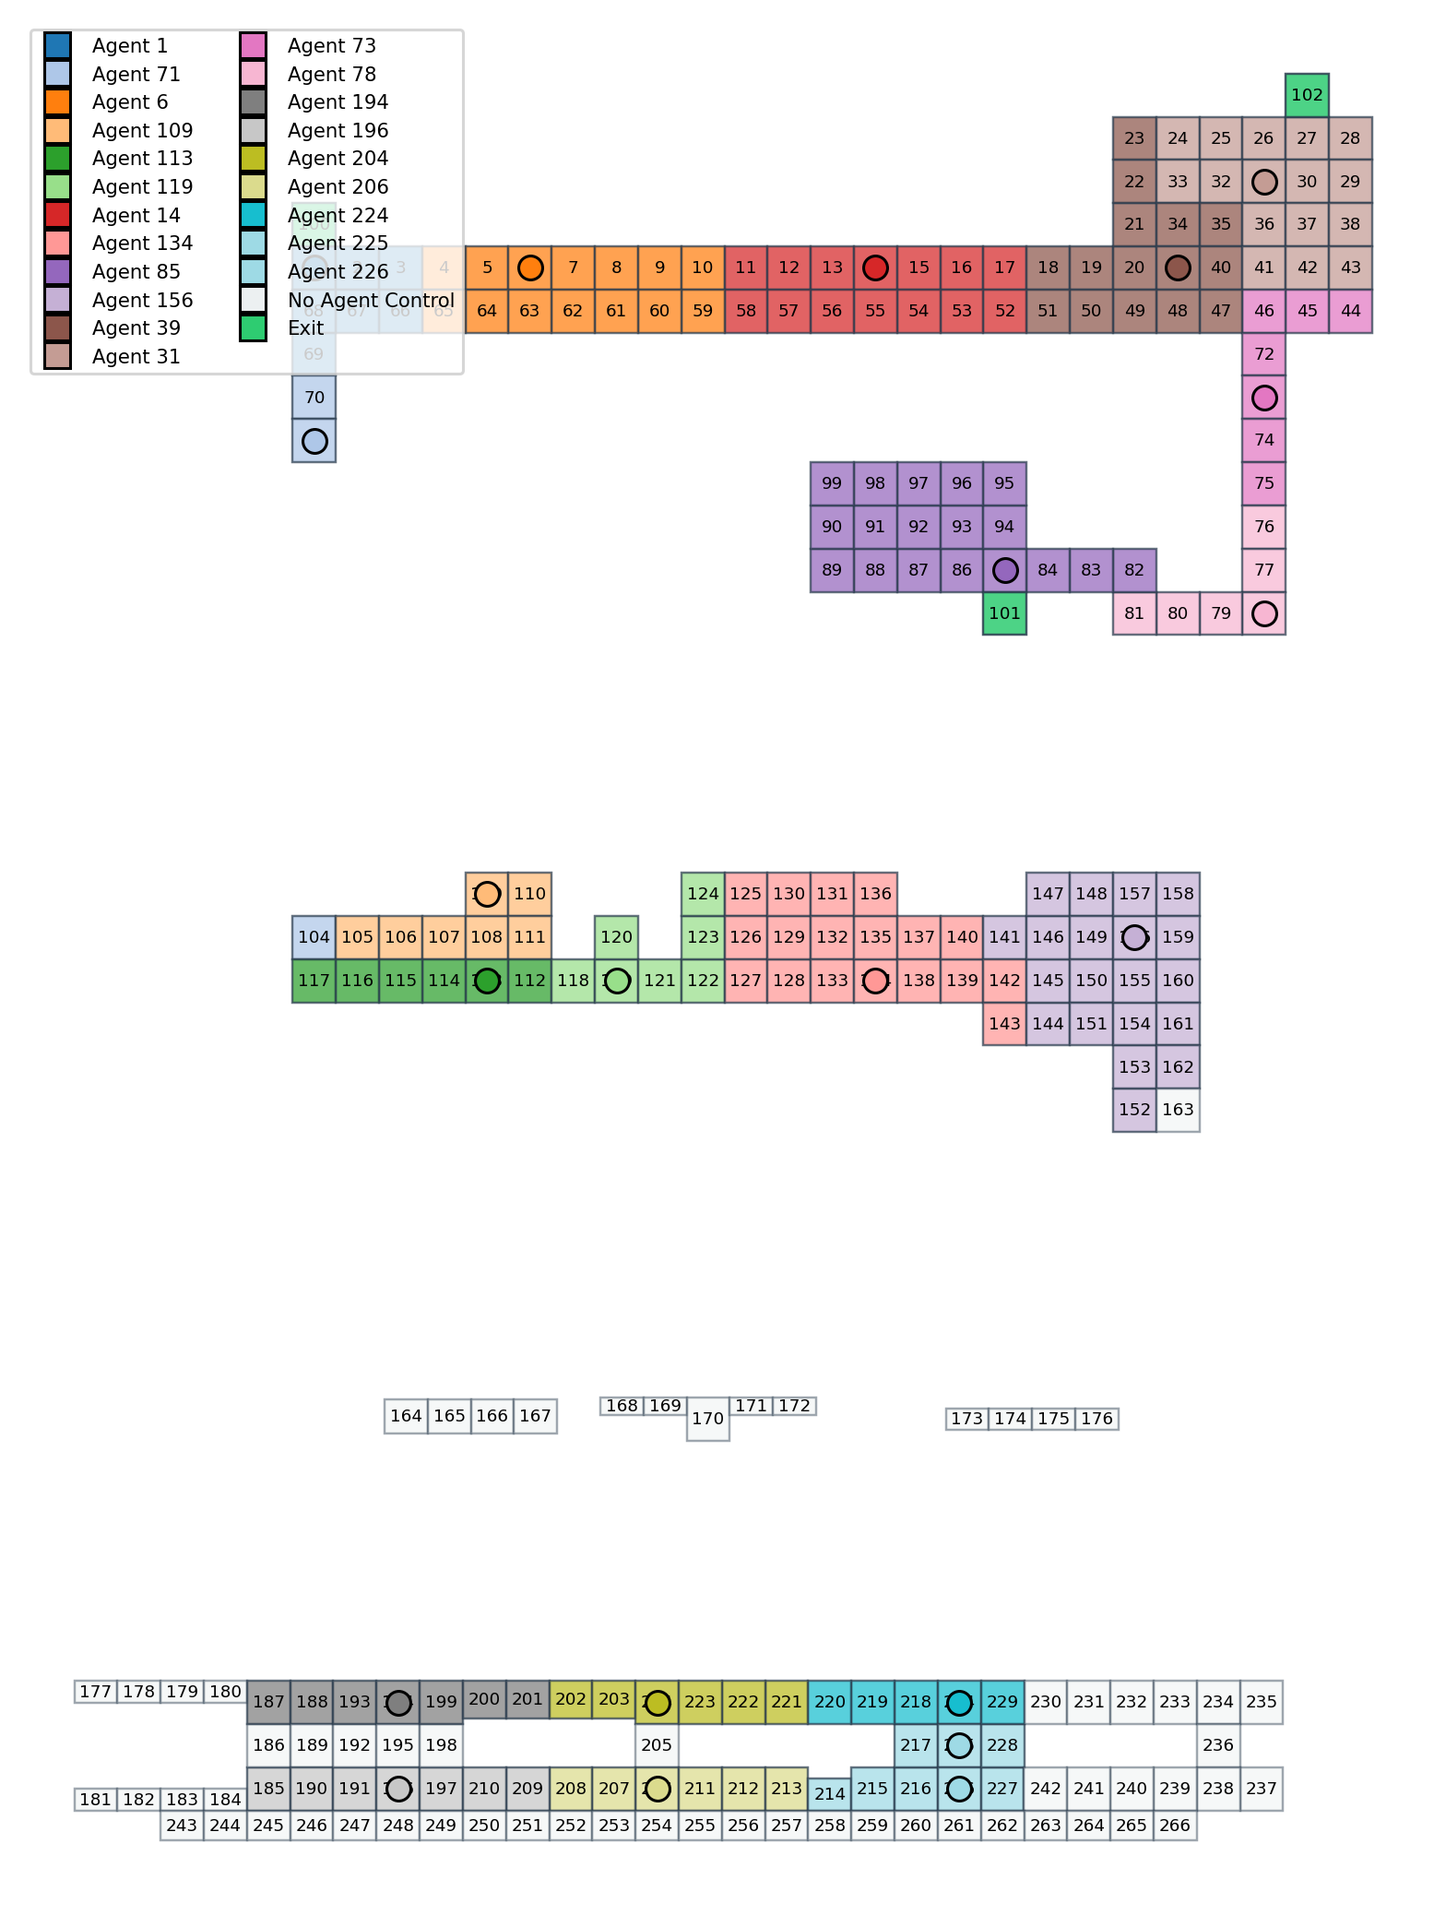
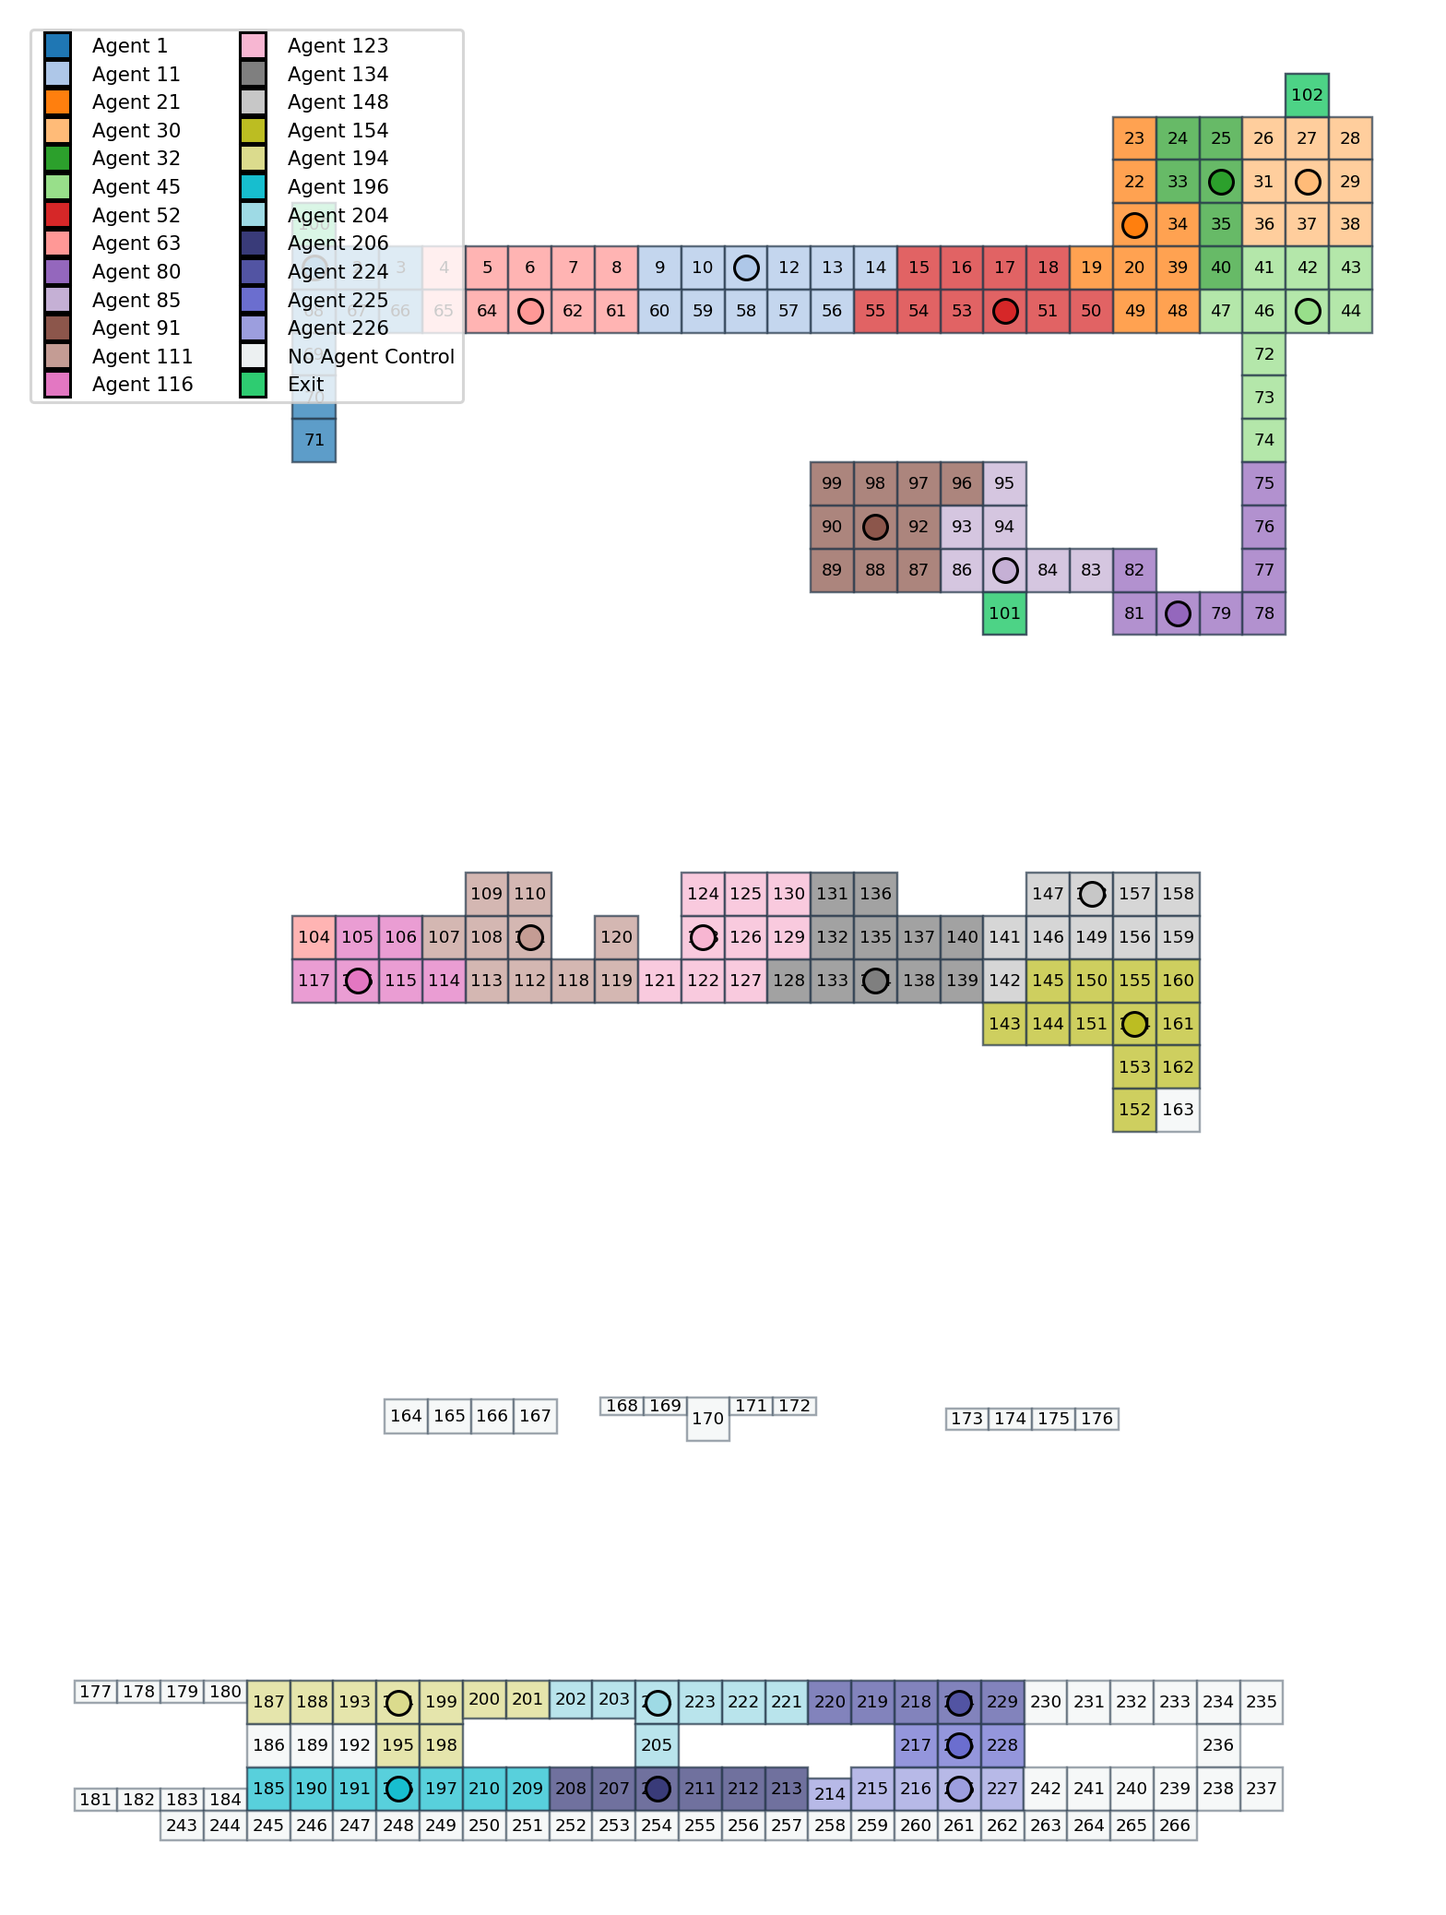
小问题没有覆盖等解决

diff --git a/QMIX_MARL/utils/CTM/ctm_start/__init__.py b/QMIX_MARL/utils/CTM/ctm_start/__init__.py
@@ -153,27 +153,77 @@ def init(fire_info=None):
     people_number = random_people()
     cell_type = cell_type_create()
 
-    sigal_effect_cells = [{1: [(68, 67), (1, 2), (2, 3), (3, 4),(67, 66), (66, 65)], 2: [(68, 1), (2, 1), (3, 2), (1, 100), (66, 67), (67, 2)], 4: [(3, 2), (2, 1), (1, 68), (68, 69),(66, 67), (67, 68)]},   # agent1
-                          {1: [(69, 70), (70, 71), (71, 117), (117, 116), (116, 115),(115, 114), (104, 105), (105, 106),(106, 107)], 2: [(115, 116), (116, 117), (117, 71), (71, 70),(70, 69), (69, 68),(106,105),(105,104),(104,117)]},   # agent2
-                          {1: [(4, 5), (5, 6), (6, 7),(7, 8), (8, 9), (9, 10),(65, 64), (64, 63), (63, 62),(62, 61), (61, 60), (60, 59),], 3: [(9, 8), (8, 7), (7, 6),(6, 5), (5, 4), (4, 3),(60, 61), (61, 62), (62, 63),(63, 64), (64, 65), (65, 66)]},  # agent3
-                          {2: [(109, 63)], 4: [(109, 108)]},  # agent4
-                          {1: [(114, 113), (113, 112),(112, 118), (111, 112),(110, 111), (108, 113),(107, 114)], 2: [(112, 111), (111, 110),(110, 109), (113, 108),(108, 109), (114, 107),(107, 108)], 3: [(112, 113), (113, 114),(114, 115), (110, 111),(111, 108), (108, 107),(107, 106)]},  # agent5
-                          {1: [(118, 119), (119, 121),(121, 122), (122, 127),(120, 119),(124, 125), (123, 126)], 3: [(124, 123), (123, 122),(122, 121), (121, 119),(120, 119),(119, 118), (118, 112)]},  # agent6
-                          {1: [(10, 11), (11, 12),(12, 13), (13, 14),(14, 15), (15, 16),(16, 17), (17, 18),(59, 58), (58, 57),(57, 56), (56, 55),(55, 54), (54, 53),(53, 52), (52, 51)], 3: [(17, 16), (16, 15),(15, 14), (14, 13),(13, 12), (12, 11),(11, 10), (10, 9),(52, 53), (53, 54),(54, 55), (55, 56),(56, 57), (57, 58),(58, 59), (59, 60)]},  # agent7
-                          {1: [(125, 130), (130, 131), (131, 136),(136, 135), (126, 129), (129, 132),(132, 135), (135, 137), (137, 140),(140, 141), (141, 146), (127, 128),(128, 133), (133, 134), (134, 138),(138, 139), (139, 142), (142, 145)], 3: [(141, 140), (140, 137), (137, 135),(135, 132), (132, 129), (129, 126),(126, 123), (125, 126), (130, 125),(131, 130), (136, 131), (142, 139),(139, 138), (138, 134), (134, 133),(133, 128), (128, 127), (127, 122)], 4: [(125, 126), (126, 127), (127, 128),(130, 129), (129, 132), (131, 132),(132, 135), (136, 135), (128, 133),(133, 134), (135, 134), (134, 97),(141, 140), (140, 137), (137, 138),(138, 96), (142, 139), (139, 138)] },  # agent8
-                         {1: [(99, 90), (90, 89),(98, 91), (91, 88),(97, 92), (92, 87),(96, 93), (93, 86),(95, 94), (94, 85),(89, 88), (88, 87) , (87, 86),(86, 85), (85, 84),(84, 83), (83, 82),(82, 81)], 4: [(99, 90), (90, 89),(98, 91), (91, 88),(97, 92), (92, 87),(96, 93), (93, 86),(95, 94), (94, 85),(89, 88), (88, 87) , (87, 86),(86, 85), (85, 101),(84, 85), (83, 84),(82, 83)]},  # agent9
-                          {1: [(147, 148), (148, 157), (157, 158),(146, 149), (149, 156), (156, 159),(145, 150), (150, 155), (155, 160), (143, 144), (144, 151), (151, 154),(154, 161),(152, 153), (153, 154), (163, 162),(162, 161),(161, 160),(160, 159), (158, 159), (159, 73)],2: [(147, 148), (148, 157), (158, 157),(143, 144),(144, 151), (145, 150), (146, 149),(149, 156), (150, 155), (151, 154),(152, 153), (153, 154), (154, 155),(155, 156),(156, 157), (159, 158), (163, 162),(162, 161),(161, 160),(160, 159), (157, 48)], 3: [(147, 146), (148, 149), (157, 156),(158, 159), (159, 156), (156, 149), (149, 146),(146, 141), (160, 155), (155, 150),(150, 145), (145, 142), (161, 154), (154, 151),(151, 144),(144, 143), (143, 142),(152, 153), (153, 154),(163, 162),(162, 161)]},  # agent10
-                          {1: [(18, 19), (19, 20), (20, 39),(39, 40), (40, 41), (41, 42),(42, 37), (43, 38), (51, 50),(50, 49), (49, 48), (48, 47),(47, 46), (46, 45), (45, 42),(44, 43) ], 3: [ (43, 42), (42, 41), (41, 40),(40, 39), (39, 20), (20, 19),(19, 18), (18, 17), (44, 45),(45, 46), (46, 47), (47, 48),(48, 49), (49, 50), (50, 51),(51, 52) ], 4: [ (18, 19), (19, 20), (20, 39),(39, 40), (40, 41), (43, 42),(42, 41), (44, 45), (45, 46),(51, 50), (50, 49), (49, 48),(48, 47), (47, 46), (41, 46),(46, 72) ]},  # agent11
-                          {2: [(23, 24), (24, 25), (25, 26), (26, 27), (22, 33), (33, 32),(32, 31), (31, 30), (21, 34),(34, 35), (35, 36), (36, 37),(37, 30), (30, 27), (27, 102),(38, 29), (29, 28), (28, 103)], 4: [(23, 22), (22, 21), (21, 20), (24, 33), (33, 34), (34, 39),(25, 32), (32, 35), (35, 40),(26, 31), (31, 36), (36, 41),(27, 30), (30, 37), (37, 42),(28, 29), (29, 38), (38, 43)]},  # agent12
-                          {4: [(72, 73),(73, 74),(74, 75),(75, 76)], 2: [(75, 74),(74, 73),(73, 72),(72, 46)]},  # agent13
-                          {2: [(76, 77), (77, 78), (78, 79),(79, 80), (80, 81), (81, 82)], 3: [(81, 80), (80, 79), (79, 78),(78, 77), (77, 76), (76, 75)]},  # agent14
-                          {1: [(187, 188), (188, 193), (193, 194),(194, 199), (199, 200), (200, 201),(201, 202)], 4: [(187, 188), (188, 193), (193, 194), (201, 200), (200, 199), (199, 198),(194, 195)]},  # agent15
-                          {1: [(185, 190), (190, 191), (191, 196),(196, 197), (197, 210), (210, 209),(209, 208)], 2: [(209, 210), (210, 197), (197, 198),(185, 190), (190, 191), (191, 196),(196, 195)]},  # agent16
-                          {1: [(202, 203), (203, 204),(204, 223), (223, 222),(222, 221),(221, 220)], 3: [(221, 222), (222, 223),(223, 204), (204, 203), (203, 202),(202, 201)], 4: [(202, 203), (203, 204),(204, 205), (221, 222),(222, 223),(223, 204)]},  # agent17
-                          {1: [(208, 207), (207, 206),(206, 211), (211, 212),(212, 213),(213, 214)], 2: [(208, 207), (207, 206),(213, 212),  (212, 211),(211, 206),(206, 205)], 3: [(213, 212), (212, 211),(211, 206), (206, 207),(207, 208),(208, 209)]},  # agent18
-                          {1: [(220, 219), (219, 218),(218, 217), (224, 225),(229, 228)], 3: [(229, 224), (224, 218),(218, 219),  (219, 220),(220, 221)]},  # agent19
-                          {1: [(217, 225), (225, 228), (228, 173)], 2: [(225, 228), (228, 173), (217, 172)], 3: [(225, 217), (228, 173), (217, 172)],4: [(225, 217), (228, 225), (217, 172)]},  # agent20
-                          {1: [(214, 215), (215, 216), (216, 217), (226, 225), (227, 228)],3: [(227, 226), (226, 216), (216, 215), (215, 214), (214, 213)]},  # agent21
+    sigal_effect_cells = [{1: [(1, 2), (2, 3), (3, 4), (66, 65), (67, 66), (68, 67), (69, 70), (70, 71), (71, 117)],
+                           2: [(1, 100), (2, 1), (3, 2), (66, 67), (67, 2), (68, 1), (69, 68), (70, 69), (71, 70)],
+                           4: [(1, 68), (2, 1), (3, 2), (66, 67), (67, 68), (68, 69)]},  # agent1
+                          {1: [(9, 10), (10, 11), (11, 12), (12, 13), (13, 14), (14, 15), (56, 55), (57, 56), (58, 57), (59, 58), (60, 59)],
+                           3: [(9, 8), (10, 9), (11, 10), (12, 11), (13, 12), (14, 13), (56, 57), (57, 58), (58, 59), (59, 60), (60, 61)]},  # agent2
+                          {1: [(19, 20), (20, 39), (39, 40), (48, 47), (49, 48)],
+                           2: [(21, 34), (22, 33), (23, 24), (34, 35)],
+                           3: [(19, 18), (20, 19), (39, 20), (48, 49), (49, 50)],
+                           4: [(19, 20), (20, 39), (21, 20), (22, 21), (23, 22), (34, 39), (39, 40), (48, 47), (49, 48)]},  # agent3
+                          {2: [(26, 27), (27, 102), (28, 103), (29, 28), (30, 27), (31, 30), (36, 37), (37, 30), (38, 29)],
+                           4: [(26, 31), (27, 30), (28, 29), (29, 38), (30, 37), (31, 36), (36, 41), (37, 42), (38, 43)]},  # agent4
+                          {1: [(40, 41)],
+                           2: [(24, 25), (25, 26), (32, 31), (33, 32), (35, 36)],
+                           3: [(40, 39)],
+                           4: [(24, 33), (25, 32), (32, 35), (33, 34), (35, 40), (40, 41)]},  # agent5
+                          {1: [(41, 42), (42, 37), (43, 38), (44, 43), (45, 42), (46, 45), (47, 46)],
+                           2: [(72, 46), (73, 72), (74, 73)],
+                           3: [(41, 40), (42, 41), (43, 42), (44, 45), (45, 46), (46, 47), (47, 48)],
+                           4: [(41, 46), (42, 41), (43, 42), (44, 45), (45, 46), (46, 72), (47, 46), (72, 73), (73, 74), (74, 75)]},  # agent6
+                          {1: [(15, 16), (16, 17), (17, 18), (18, 19), (50, 49), (51, 50), (52, 51), (53, 52), (54, 53), (55, 54)],
+                           3: [(15, 14), (16, 15), (17, 16), (18, 17), (50, 51), (51, 52), (52, 53), (53, 54), (54, 55), (55, 56)],
+                           4: [(18, 19), (50, 49), (51, 50)]},  # agent7
+                          {1: [(4, 5), (5, 6), (6, 7), (7, 8), (8, 9), (61, 60), (62, 61), (63, 62), (64, 63), (65, 64), (104, 105)],
+                           2: [(104, 117)],
+                           3: [(4, 3), (5, 4), (6, 5), (7, 6), (8, 7), (61, 62), (62, 63), (63, 64), (64, 65), (65, 66)]},  # agent8
+                          {1: [(82, 81)],
+                           2: [(75, 74), (76, 77), (77, 78), (78, 79), (79, 80), (80, 81), (81, 82)],
+                           3: [(76, 75), (77, 76), (78, 77), (79, 78), (80, 79), (81, 80)],
+                           4: [(75, 76), (82, 83)]},  # agent9
+                          {1: [(83, 82), (84, 83), (85, 84), (86, 85), (93, 86), (94, 85), (95, 94)],
+                           4: [(83, 84), (84, 85), (85, 101), (86, 85), (93, 86), (94, 85), (95, 94)]},  # agent10
+                          {1: [(87, 86), (88, 87), (89, 88), (90, 89), (91, 88), (92, 87), (96, 93), (97, 92), (98, 91), (99, 90)],
+                           4: [(87, 86), (88, 87), (89, 88), (90, 89), (91, 88), (92, 87), (96, 93), (97, 92), (98, 91), (99, 90)]},  # agent11
+                          {1: [(107, 114), (108, 113), (110, 111), (111, 112), (112, 118), (113, 112), (118, 119), (119, 121), (120, 119)],
+                           2: [(107, 108), (108, 109), (109, 63), (110, 109), (111, 110), (112, 111), (113, 108)],
+                           3: [(107, 106), (108, 107), (110, 111), (111, 108), (112, 113), (113, 114), (118, 112), (119, 118), (120, 119)],
+                           4: [(109, 108)]},  # agent12
+                          {1: [(105, 106), (106, 107), (114, 113), (115, 114), (116, 115), (117, 116)],
+                           2: [(105, 104), (106, 105), (114, 107), (115, 116), (116, 117), (117, 71)],
+                           3: [(114, 115)]},  # agent13
+                          {1: [(121, 122), (122, 127), (123, 126), (124, 125), (125, 130), (126, 129), (127, 128), (129, 132), (130, 131)],
+                           3: [(121, 119), (122, 121), (123, 122), (124, 123), (125, 126), (126, 123), (127, 122), (129, 126), (130, 125)],
+                           4: [(125, 126), (126, 127), (127, 128), (129, 132), (130, 129)]},  # agent14
+                          {1: [(128, 133), (131, 136), (132, 135), (133, 134), (134, 138), (135, 137), (136, 135), (137, 140), (138, 139), (139, 142), (140, 141)],
+                           3: [(128, 127), (131, 130), (132, 129), (133, 128), (134, 133), (135, 132), (136, 131), (137, 135), (138, 134), (139, 138), (140, 137)],
+                           4: [(128, 133), (131, 132), (132, 135), (133, 134), (134, 97), (135, 134), (136, 135), (137, 138), (138, 96), (139, 138), (140, 137)]},  # agent15
+                          {1: [(141, 146), (142, 145), (146, 149), (147, 148), (148, 157), (149, 156), (156, 159), (157, 158), (158, 159), (159, 73)],
+                           2: [(146, 149), (147, 148), (148, 157), (149, 156), (156, 157), (157, 48), (158, 157), (159, 158)],
+                           3: [(141, 140), (142, 139), (146, 141), (147, 146), (148, 149), (149, 146), (156, 149), (157, 156), (158, 159), (159, 156)],
+                           4: [(141, 140), (142, 139)]},  # agent16
+                          {1: [(143, 144), (144, 151), (145, 150), (150, 155), (151, 154), (152, 153), (153, 154), (154, 161), (155, 160), (160, 159), (161, 160), (162, 161)],
+                           2: [(143, 144), (144, 151), (145, 150), (150, 155), (151, 154), (152, 153), (153, 154), (154, 155), (155, 156), (160, 159), (161, 160), (162, 161)],
+                           3: [(143, 142), (144, 143), (145, 142), (150, 145), (151, 144), (152, 153), (153, 154), (154, 151), (155, 150), (160, 155), (161, 154), (162, 161)]},  # agent17
+                          {1: [(187, 188), (188, 193), (193, 194), (194, 199), (199, 200), (200, 201), (201, 202), (195, 198), (198, 164)],
+                           4: [(187, 188), (188, 193), (193, 194), (194, 195), (199, 198), (200, 199), (201, 200), (195, 198), (198, 164)]},  # agent18
+                          {1: [(185, 190), (190, 191), (191, 196), (196, 197), (197, 210), (209, 208), (210, 209)],
+                           2: [(185, 190), (190, 191), (191, 196), (196, 195), (197, 198), (209, 210), (210, 197)]},  # agent19
+                          {1: [(202, 203), (203, 204), (204, 223), (221, 220), (222, 221), (223, 222), (205, 168)],
+                           3: [(202, 201), (203, 202), (204, 203), (221, 222), (222, 223), (223, 204), (205, 168)],
+                           4: [(202, 203), (203, 204), (204, 205), (221, 222), (222, 223), (223, 204), (205, 168)]},  # agent20
+                          {1: [(206, 211), (207, 206), (208, 207), (211, 212), (212, 213), (213, 214)],
+                           2: [(206, 205), (207, 206), (208, 207), (211, 206), (212, 211), (213, 212)],
+                           3: [(206, 207), (207, 208), (208, 209), (211, 206), (212, 211), (213, 212)]},  # agent21
+                          {1: [(218, 217), (219, 218), (220, 219), (224, 225), (229, 228)],
+                           3: [(218, 219), (219, 220), (220, 221), (224, 218), (229, 224)]},  # agent22
+                          {1: [(217, 225), (225, 228), (228, 173)],
+                           2: [(217, 172), (225, 228), (228, 173)],
+                           3: [(217, 172), (225, 217), (228, 173)],
+                           4: [(217, 172), (225, 217), (228, 225)]},  # agent23
+                          {1: [(214, 215), (215, 216), (216, 217), (226, 225), (227, 228)],
+                           3: [(214, 213), (215, 214), (216, 215), (226, 216), (227, 226)]},  # agent24
                           ]
 
     fixed_cell = [(164,165),(165,166),(166,167),(167,109), (168,169),(169,170),(172,171),(171,170),(170,120), (173,174),(174,175),(175,176),(176,147) #一楼
@@ -198,7 +248,7 @@ def init(fire_info=None):
     # agent_cell_ids = [32, 43, 46, 50, 51, 57, 60, 62, 18, 13, 11, 10, 8, 5, 25, 17, 30, 66] #15,
 
     # agent_cell_ids = [71,113,119,134,156,194,196,204,206,224,225,226]
-    agent_cell_ids = [1,71,6,109,113,119,14,134,85,156,39,31,73,78,194,196,204,206,224,225,226]
+    agent_cell_ids = [1, 11, 21, 30, 32, 45, 52, 63, 80, 85, 91, 111, 116, 123, 134, 148, 154, 194, 196, 204, 206, 224, 225, 226]
     # energy_domine = [8,7,6,5,4,5,6,7,7,6,5,4,3,2,1,2,3,4,5,6,7,8,9,3,2,1,2,3,4,5,6,7,8,9,10,11,12,13,8,9,10,11
                      # ,12,13,14,15,16,16,15,14,13,14,15,16,17,12,11,10,9,8,7,6,5,5,4,3,2,1,0,0,0]
 
@@ -678,6 +728,46 @@ def build_agent_control_cells(agent_cell_ids, sigal_effect_cells=None, node_owne
     return control_cells
 
 
+def _build_distinct_agent_colors(agent_cell_ids):
+    """
+    Build a high-contrast color map for agent ids.
+    Uses multiple qualitative palettes first, then HSV fallback.
+    """
+    n = max(len(agent_cell_ids), 1)
+    palette = []
+
+    qualitative_maps = ["tab20", "tab20b", "tab20c", "Set3", "Dark2", "Paired", "Accent"]
+    for cmap_name in qualitative_maps:
+        cmap = plt.get_cmap(cmap_name)
+        if hasattr(cmap, "colors"):
+            palette.extend([tuple(c) for c in cmap.colors])
+        else:
+            palette.extend([tuple(cmap(i / max(n - 1, 1))) for i in range(n)])
+
+    unique_palette = []
+    seen = set()
+    for c in palette:
+        key = tuple(round(float(x), 3) for x in c[:3])
+        if key in seen:
+            continue
+        seen.add(key)
+        unique_palette.append(c)
+
+    if len(unique_palette) < n:
+        extra = plt.cm.hsv(np.linspace(0, 1, n - len(unique_palette) + 1, endpoint=False))
+        for c in extra:
+            key = tuple(round(float(x), 3) for x in c[:3])
+            if key in seen:
+                continue
+            seen.add(key)
+            unique_palette.append(tuple(c))
+            if len(unique_palette) >= n:
+                break
+
+    selected = unique_palette[:n]
+    return {agent_id: selected[i] for i, agent_id in enumerate(agent_cell_ids)}
+
+
 def visualize_agent_control_ranges(agent_cell_ids, sigal_effect_cells=None, exit_nodes=None, output_path=None,
                                    node_owner=None, show_title=False):
     """Visualize agent control ranges with different colors and save to file."""
@@ -698,8 +788,7 @@ def visualize_agent_control_ranges(agent_cell_ids, sigal_effect_cells=None, exit
         for node in nodes:
             node_to_agents.setdefault(node, []).append(agent_id)
 
-    color_values = plt.cm.tab20(np.linspace(0, 1, max(len(agent_cell_ids), 1)))
-    agent_colors = {agent_id: color_values[i] for i, agent_id in enumerate(agent_cell_ids)}
+    agent_colors = _build_distinct_agent_colors(agent_cell_ids)
 
     fig, ax = plt.subplots(figsize=(16, 12))
     ax.set_aspect("equal")
